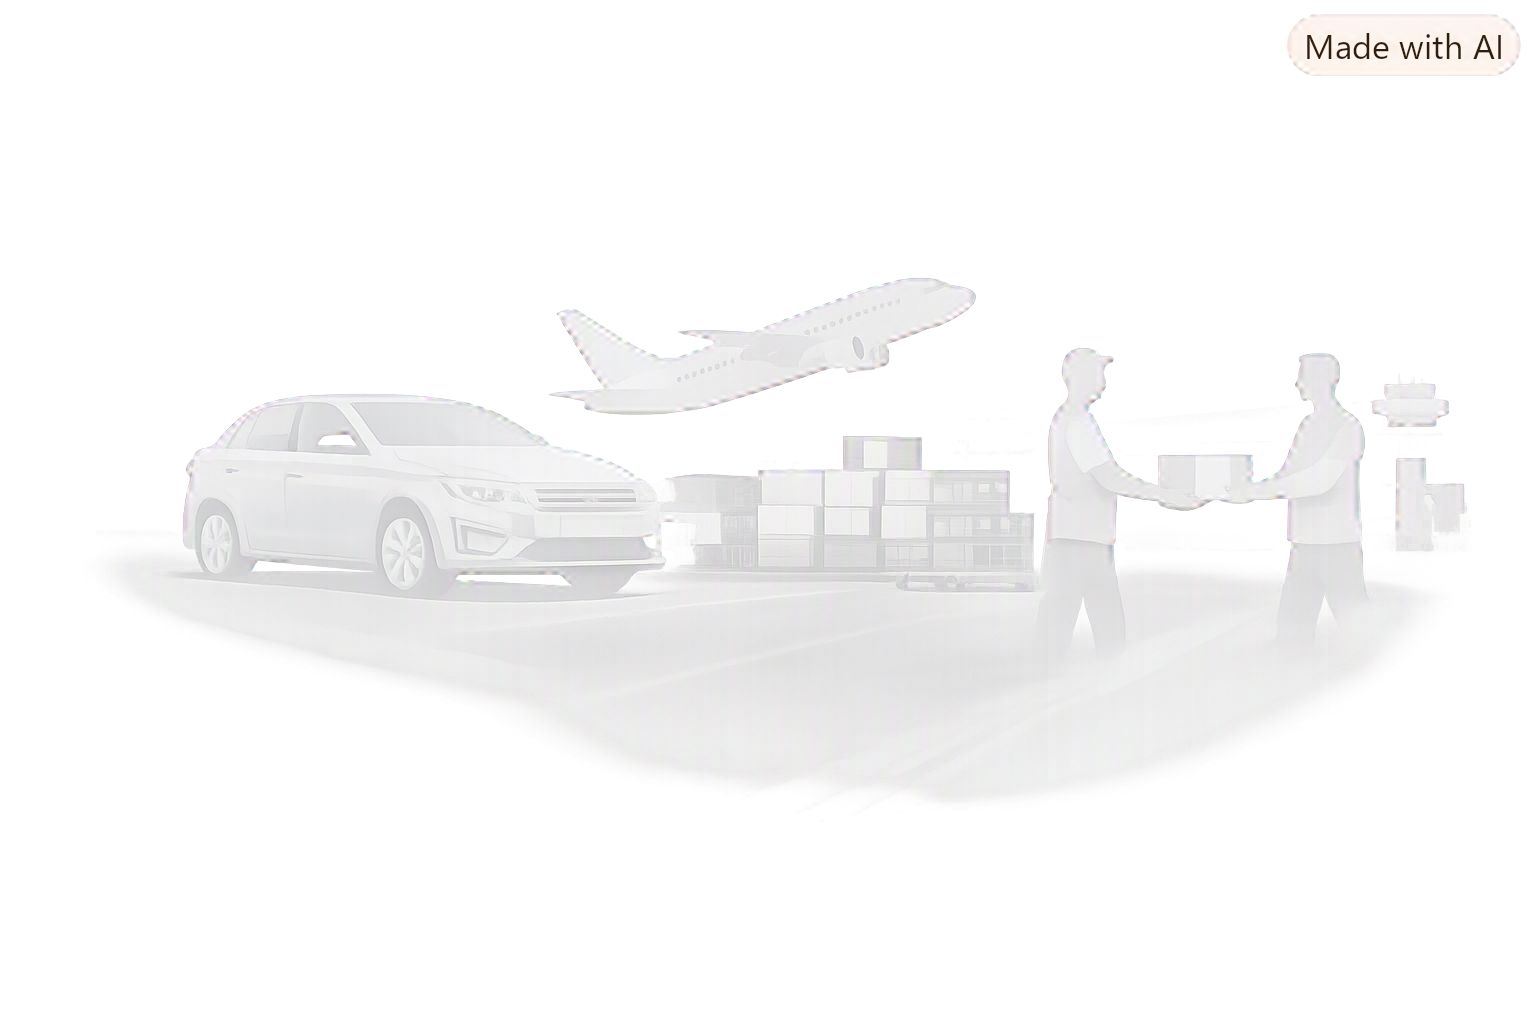
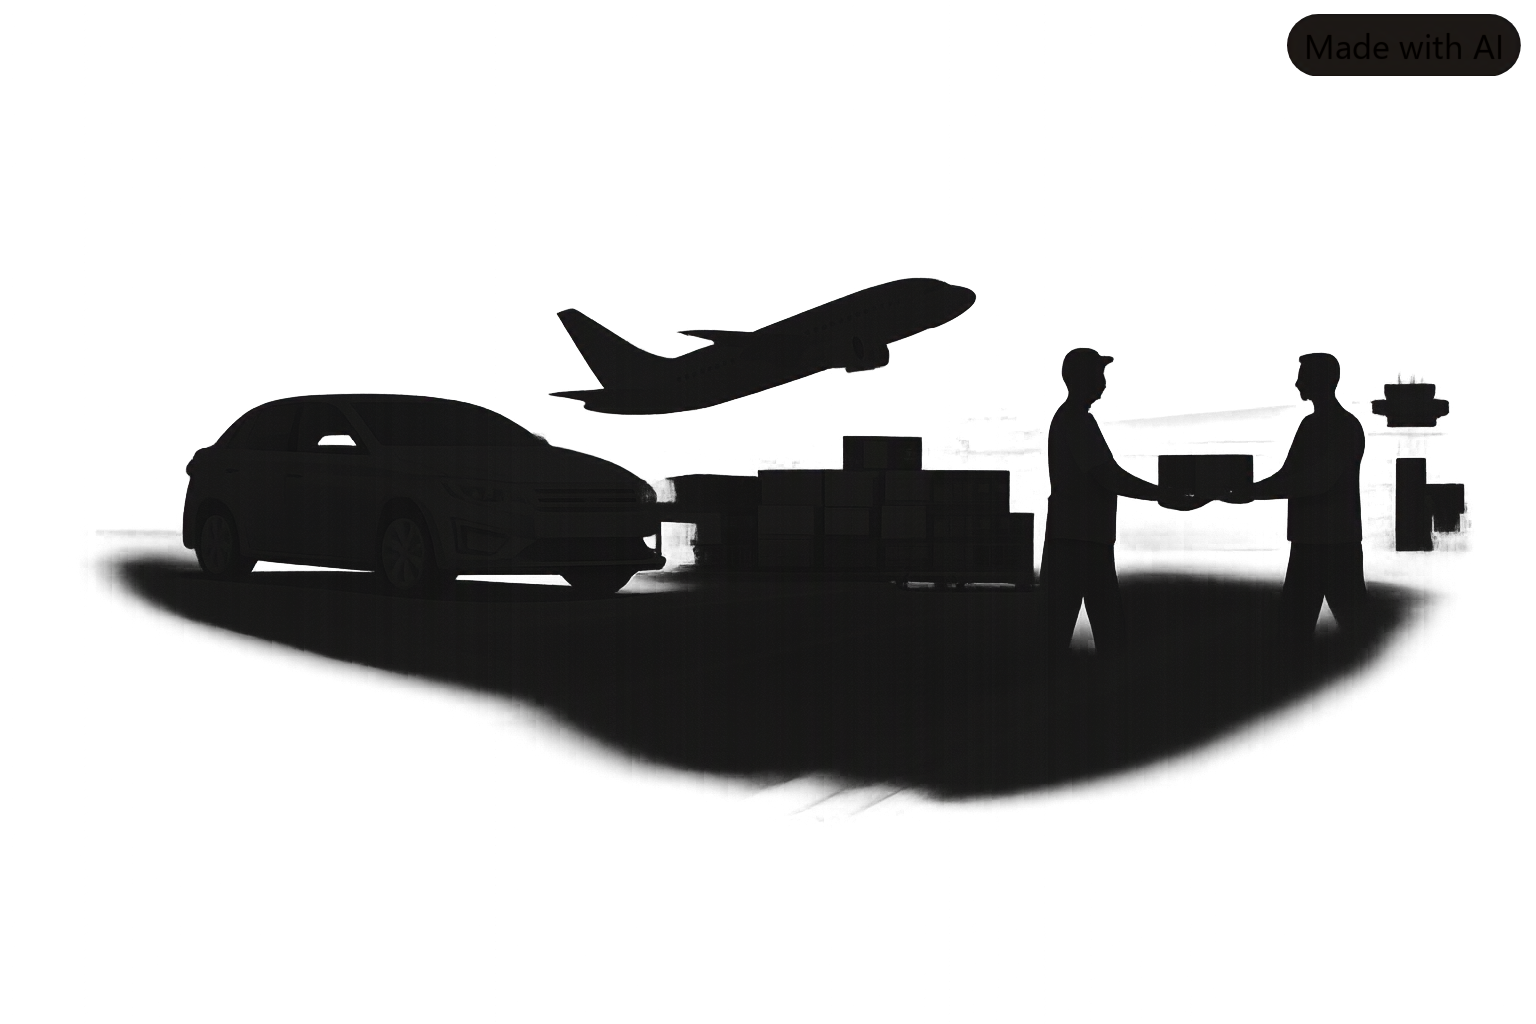
watermark

Changed region(s): [[0.0625, 0.25, 0.9688, 0.8125], [0.8125, 0.0, 1.0, 0.0938]]

diff --git a/css/style.css b/css/style.css
@@ -686,12 +686,12 @@ a {
   }
 }
 /* ============================================================
-   FLEXAGO WATERMARK — Darker Background for Visibility
+   FLEXAGO WATERMARK — Pure Dark Blue Background
    ============================================================ */
 .hero {
   position: relative;
-  background: #c8c8c8; /* darker gray so watermark stands out */
-  color: #000;
+  background: #001a33; /* PURE DARK BLUE */
+  color: #ffffff; /* white text for contrast */
   padding: 160px 40px;
   text-align: center;
   overflow: hidden; /* prevents watermark overflow on mobile */
@@ -704,13 +704,14 @@ a {
   top: 50%;
   left: 50%;
   transform: translate(-50%, -50%);
+
   background-image: url("../IMG/flexago-watermark.png");
   background-size: 900px;
   background-repeat: no-repeat;
 
-  /* DARKER + STRONGER VISIBILITY */
-  opacity: 0.14;
-  filter: brightness(0.55) contrast(1.25);
+  /* Strong visibility on dark blue */
+  opacity: 0.22;
+  filter: brightness(1.1) contrast(1.4);
 
   width: 900px;
   height: 450px;
@@ -727,12 +728,12 @@ a {
   }
 
   .hero::before {
-    background-size: 600px; /* scale watermark down */
+    background-size: 600px;
     width: 600px;
     height: 300px;
 
-    opacity: 0.10; /* slightly stronger on mobile */
-    filter: brightness(0.6) contrast(1.3);
+    opacity: 0.18;
+    filter: brightness(1.15) contrast(1.45);
   }
 }
 
@@ -743,6 +744,6 @@ a {
     width: 420px;
     height: 210px;
 
-    opacity: 0.12; /* tuned for small screens */
+    opacity: 0.20;
   }
 }
